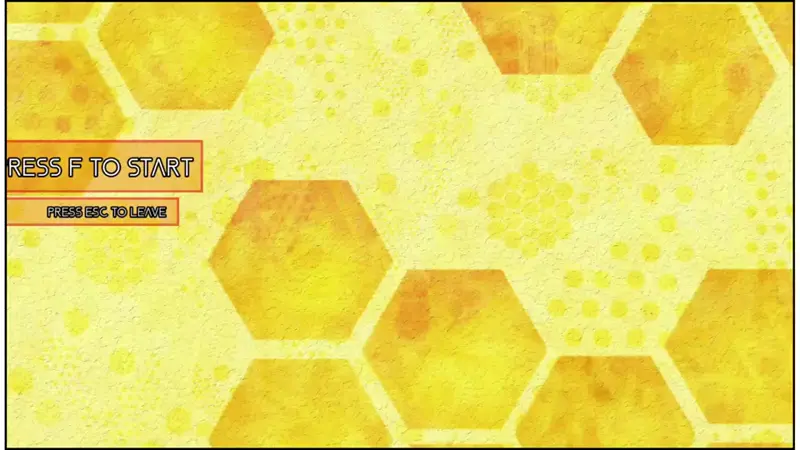
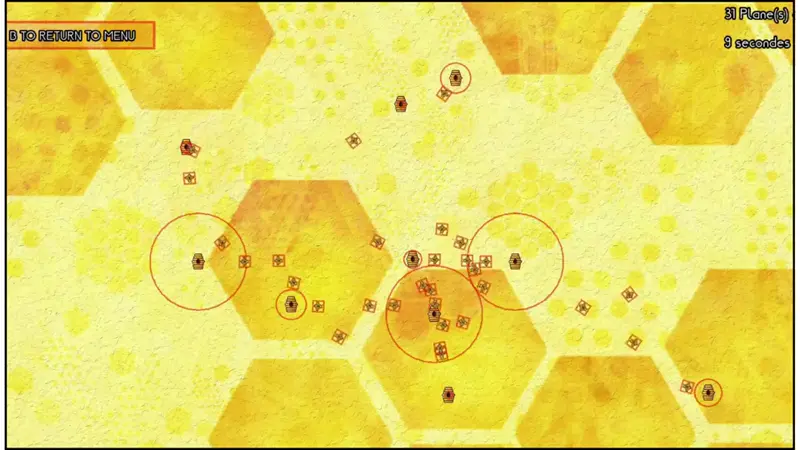
feat(content): location, Issanka's first mission, Climb2C solo work, honest Codename and Secured texts
- Montpellier or remote: a Location row on both offers, the CV header and the JSON-LD address.
- Issanka: the website was the first mission (issanka.com, linked on the CV).
- Climb2C: built alone, as the CV already said.
- Codename and Secured describe what their repositories actually contain (tags follow).
- Plazza, StartTrek and MyRadar posters taken mid-video instead of on a near-blank frame.
- Map layout spreads directions a bit more evenly (0.8/0.2): with Codename's real tags,
  the 40-project case on a 1280x760 board pushed five cards past the ellipse.

Claude-Session: https://claude.ai/code/session_018q8R2jH5MEvffGBunQrmJf

diff --git a/src/data/profile.ts b/src/data/profile.ts
@@ -63,13 +63,13 @@ export const EXPERIENCES: Experience[] = [
         org: 'Issanka',
         period: { en: 'Sept 2026 - Feb 2027', fr: 'Sept 2026 - Fév 2027' },
         summary: {
-            en: 'Rebuilt the company website: a new look, faster pages, many bugs fixed. Live since 9 October 2026.',
-            fr: "Refonte du site de l'entreprise : nouveau look, pages plus rapides, de nombreux bugs corrigés. En ligne depuis le 9 octobre 2026."
+            en: 'First mission: rebuilt issanka.com, with a new look, faster pages and many bugs fixed. Live since 9 October 2026.',
+            fr: 'Première mission : refonte de issanka.com, avec un nouveau look, des pages plus rapides et de nombreux bugs corrigés. En ligne depuis le 9 octobre 2026.'
         },
         highlights: [
             {
-                en: 'Rebuilt the company website with the new visual identity: faster, many bugs fixed, live since 9 October 2026.',
-                fr: "Refonte du site de l'entreprise à la nouvelle identité visuelle : plus rapide, de nombreux bugs corrigés, en ligne depuis le 9 octobre 2026."
+                en: 'First mission: rebuilt <a href="https://issanka.com">issanka.com</a> with the new visual identity: faster, many bugs fixed, live since 9 October 2026.',
+                fr: 'Première mission : refonte de <a href="https://issanka.com">issanka.com</a> à la nouvelle identité visuelle : plus rapide, de nombreux bugs corrigés, en ligne depuis le 9 octobre 2026.'
             },
             {
                 en: 'Replaced paid subscriptions (such as Elementor Pro), which lowers running costs.',
@@ -84,8 +84,8 @@ export const EXPERIENCES: Experience[] = [
         org: 'Climb2C (Eliona Conseil)',
         period: { en: 'Sept - Dec 2025', fr: 'Sept - Déc 2025' },
         summary: {
-            en: 'Built my own parts of an internal RAG system and a client questionnaire that drives the offers Climb2C recommends.',
-            fr: "Conception de mes parties d'un système RAG interne et d'un questionnaire client dont les réponses orientent les offres de Climb2C."
+            en: 'Built on my own an internal RAG system and a client questionnaire whose answers drive the offers Climb2C recommends.',
+            fr: "Conception en solo d'un système RAG interne et d'un questionnaire client dont les réponses orientent les offres de Climb2C."
         },
         highlights: [
             {
@@ -216,12 +216,15 @@ export const CHECKPOINTS: Checkpoint[] = [
 export const NOW = {
     role: { en: 'AI developer at Issanka', fr: 'Développeur IA chez Issanka' },
     focus: {
-        en: "The company's new website, live since 9 October",
-        fr: "Le nouveau site de l'entreprise, en ligne depuis le 9 octobre"
+        en: 'First mission: issanka.com, live since 9 October',
+        fr: 'Première mission : issanka.com, en ligne depuis le 9 octobre'
     },
     detail: { en: 'Sept 2026 – Feb 2027 · Epitech year 3', fr: 'Sept 2026 – Fév 2027 · Epitech 3e année' },
     availability: { en: 'Open to an internship · Mar – Aug 2027', fr: 'Disponible en stage · mars – août 2027' }
 } satisfies Record<string, Text>;
+
+/** Where the owner works from: the CV header. */
+export const LOCATION: Text = { en: 'Montpellier, France · or remote', fr: 'Montpellier · ou télétravail' };
 
 /** Home timeline order (newest first), mixing experiences and education by id. A test checks every entry is listed once. */
 export const TIMELINE: string[] = [
@@ -335,6 +338,11 @@ export const OFFERS: Offer[] = [
                 note: { en: 'At least 4 months (5 days/week).', fr: 'Au moins 4 mois (5 jours/semaine).' }
             },
             {
+                label: { en: 'Location', fr: 'Lieu' },
+                value: { en: 'Montpellier area or remote.', fr: 'Montpellier et alentours, ou télétravail.' },
+                note: { en: 'Remote work welcome.', fr: 'Télétravail bienvenu.' }
+            },
+            {
                 label: { en: 'Contract Type', fr: 'Type de contrat' },
                 value: { en: 'Internship, CDD, or CDI.', fr: 'Stage, CDD ou CDI.' },
                 note: { en: 'Full-time placement.', fr: 'Temps plein.' }
@@ -362,6 +370,14 @@ export const OFFERS: Offer[] = [
                 label: { en: 'Scope & Availability', fr: 'Périmètre et disponibilité' },
                 value: { en: 'Backend APIs, AI integration.', fr: "API back-end, intégration d'IA." },
                 note: { en: 'Flexible hours, async delivery.', fr: 'Horaires flexibles, livraison asynchrone.' }
+            },
+            {
+                label: { en: 'Location', fr: 'Lieu' },
+                value: {
+                    en: 'Remote, or on site around Montpellier.',
+                    fr: 'À distance, ou sur site autour de Montpellier.'
+                },
+                note: { en: 'Based in Montpellier, France.', fr: 'Basé à Montpellier.' }
             },
             {
                 label: { en: 'Status', fr: 'Statut' },

diff --git a/src/data/projects.ts b/src/data/projects.ts
@@ -177,10 +177,10 @@ export const PROJECTS: ProjectEntry[] = [
         id: 'codename',
         title: 'Codename',
         description: {
-            en: 'A robust testing framework designed to evaluate and fortify Large Language Models against prompt injections and jailbreaks. Integrates adversarial prompting and defensive monitoring to ensure safe LLM deployments.',
-            fr: 'Un framework de test pour évaluer et renforcer la résistance des modèles de langage (LLM) aux injections de prompt et aux jailbreaks. Il combine prompting adverse et surveillance défensive pour sécuriser les déploiements.'
+            en: 'A prompt-injection lab: an attack prompt, a hardened system prompt for a local Ollama model, and a 39-case audit script in 9 attack families (role play, exfiltration tricks, multilingual, near-miss passwords...) that checks whether the secret leaks.',
+            fr: "Un laboratoire d'injection de prompt : un prompt d'attaque, un prompt système durci pour un modèle Ollama local, et un script d'audit de 39 cas en 9 familles d'attaques (jeu de rôle, exfiltration, multilingue, mots de passe presque exacts...) qui vérifie si le secret fuit."
         },
-        tags: ['Security', 'Python', 'LLM', 'Prompt Engineering'],
+        tags: ['Security', 'LLM', 'Prompt Engineering', 'Ollama', 'Bash'],
         category: 'ai',
         date: '2026-03',
         featured: true,
@@ -313,8 +313,8 @@ export const PROJECTS: ProjectEntry[] = [
         id: 'secured',
         title: 'Secured',
         description: {
-            en: 'A robust C library implementing a highly efficient Hash Table data structure. Features custom cryptographic hashing functions and collision resolution strategies to ensure secure and fast data retrieval.',
-            fr: 'Une bibliothèque C qui implémente une table de hachage performante. Avec des fonctions de hachage personnalisées et plusieurs stratégies de résolution de collisions.'
+            en: 'A C library implementing a hash table: a custom hash function, separate chaining (a linked list per bucket), and 36 unit tests.',
+            fr: 'Une bibliothèque C qui implémente une table de hachage : une fonction de hachage maison, le chaînage séparé (une liste chaînée par case) et 36 tests unitaires.'
         },
         tags: ['C', 'Data Structures', 'Algorithms', 'Security', 'Library'],
         category: 'systems',

diff --git a/src/pages/cv/blocks.ts b/src/pages/cv/blocks.ts
@@ -3,7 +3,7 @@
  * data-render names). The same HTML is the web page and, printed by scripts/cv-pdf.ts, the PDF.
  * Relative imports only: rendered from Node.
  */
-import { CV_PROJECTS, EDUCATION, EXPERIENCES, SKILLS } from '../../data/profile.ts';
+import { CV_PROJECTS, EDUCATION, EXPERIENCES, LOCATION, SKILLS } from '../../data/profile.ts';
 import { PROJECTS, projectPath } from '../../data/projects.ts';
 import { OWNER, SITE } from '../../core/site.ts';
 import { localizedPath, type Lang } from '../../core/translate.ts';
@@ -57,8 +57,9 @@ export const projectBlocks = Object.fromEntries(
     ])
 );
 
-/** Email, site, GitHub, LinkedIn. */
+/** Location, then email, site, GitHub, LinkedIn. */
 export const contact = (lang: Lang) =>
+    `<li>${LOCATION[lang]}</li>` +
     [
         [`mailto:${OWNER.email}`, OWNER.email],
         [`${SITE}${localizedPath('/', lang)}`, SITE.replace('https://', '')],

diff --git a/src/components/NeuralMap/graph.ts b/src/components/NeuralMap/graph.ts
@@ -91,7 +91,7 @@ export function layout(W: number, H: number, fit: { rx: number; ry: number }, it
     const raw = coords.map(([x, y]) => Math.atan2(y, x));
     const rank = raw.map((a, i) => raw.filter((b, j) => b < a || (b === a && j < i)).length);
     const stars = items.map((p, i) => {
-        const angle = (-Math.PI + (2 * Math.PI * (rank[i] + 0.5)) / raw.length) * 0.7 + raw[i] * 0.3;
+        const angle = (-Math.PI + (2 * Math.PI * (rank[i] + 0.5)) / raw.length) * 0.8 + raw[i] * 0.2;
         const r = ORBIT[periodOf(p)];
         return { p, x: cx + Math.cos(angle) * fit.rx * r, y: cy + Math.sin(angle) * fit.ry * r };
     });

diff --git a/src/core/structured-data.ts b/src/core/structured-data.ts
@@ -17,6 +17,7 @@ function person(lang: Lang): JsonLd {
         url: SITE + localizedPath('/', lang),
         jobTitle: lookup(lang, 'cv.hero.role'),
         affiliation: { '@type': 'CollegeOrUniversity', name: OWNER.school },
+        address: { '@type': 'PostalAddress', addressLocality: OWNER.city, addressCountry: OWNER.country },
         sameAs: [OWNER.github, OWNER.linkedin]
     };
 }

diff --git a/src/core/site.ts b/src/core/site.ts
@@ -8,5 +8,7 @@ export const OWNER = {
     linkedin: 'https://www.linkedin.com/in/nielsen-combebracciale/',
     email: 'nielsen.combe-bracciale@epitech.eu',
     source: 'https://github.com/Nexlein/Portfolio',
-    school: 'Epitech'
+    school: 'Epitech',
+    city: 'Montpellier',
+    country: 'FR'
 } as const;

diff --git a/.claude/codemap.md b/.claude/codemap.md
@@ -133,10 +133,10 @@ Per file: lines, purpose, exports, → local imports, ← used by. Paths drop `s
 - **lang.ts** (37) — Languages and localized paths: pure, with no dictionary attached, so browser code can use them without downloading every translation (the...
   - exports: Lang, LANGS, Text, DEFAULT_LANG, langOfPath, localizedPath, STRINGS_ID, lookupIn
   - ← components/NeuralMap/NeuralMap, core/i18n, core/translate, vite-plugins/pages
-- **site.ts** (13) — Facts about the site and its owner, shared by the build (SEO, sitemap, structured data) and tests.
+- **site.ts** (15) — Facts about the site and its owner, shared by the build (SEO, sitemap, structured data) and tests.
   - exports: SITE, OWNER
   - ← components/Footer/render, core/structured-data, pages/cv/blocks, pages/home/blocks, vite-plugins/pages
-- **structured-data.ts** (62) — schema.org JSON-LD for search engines (rendered into each page at build time).
+- **structured-data.ts** (63) — schema.org JSON-LD for search engines (rendered into each page at build time).
   - exports: profilePage, cvPerson, projectSource
   - → data/projects, core/site, core/translate
   - ← vite-plugins/pages
@@ -150,8 +150,8 @@ Per file: lines, purpose, exports, → local imports, ← used by. Paths drop `s
 - tests: analytics.test.ts, i18n.test.ts, structured-data.test.ts, text.test.ts, translate.test.ts
 
 ## src/data
-- **profile.ts** (379) — Everything the site says about its owner, written once in every language.
-  - exports: Experience, Education, SkillGroup, CvProjectGroup, Offer, EXPERIENCES, EDUCATION, Checkpoint, CHECKPOINTS, NOW, TIMELINE, SKILLS, CV_PROJECTS, OFFERS
+- **profile.ts** (395) — Everything the site says about its owner, written once in every language.
+  - exports: Experience, Education, SkillGroup, CvProjectGroup, Offer, EXPERIENCES, EDUCATION, Checkpoint, CHECKPOINTS, NOW, LOCATION, TIMELINE, SKILLS, CV_PROJECTS, OFFERS
   - → core/translate
   - ← scripts/brand-images, components/Charts/data, components/Charts/render, components/NeuralMap/NeuralMap, pages/cv/blocks, pages/home/blocks
 - **projects.ts** (368) — Single source of truth for all portfolio projects.
@@ -177,7 +177,7 @@ Per file: lines, purpose, exports, → local imports, ← used by. Paths drop `s
 - tests: render.test.ts
 
 ## src/pages/cv
-- **blocks.ts** (70) — CV blocks, rendered at build time in every language (src/pages/content/render.ts calls them for the matching data-render names).
+- **blocks.ts** (71) — CV blocks, rendered at build time in every language (src/pages/content/render.ts calls them for the matching data-render names).
   - exports: experience, skills, education, certifications, projectBlocks, contact
   - → data/profile, data/projects, core/site, core/translate
   - ← pages/content/render
